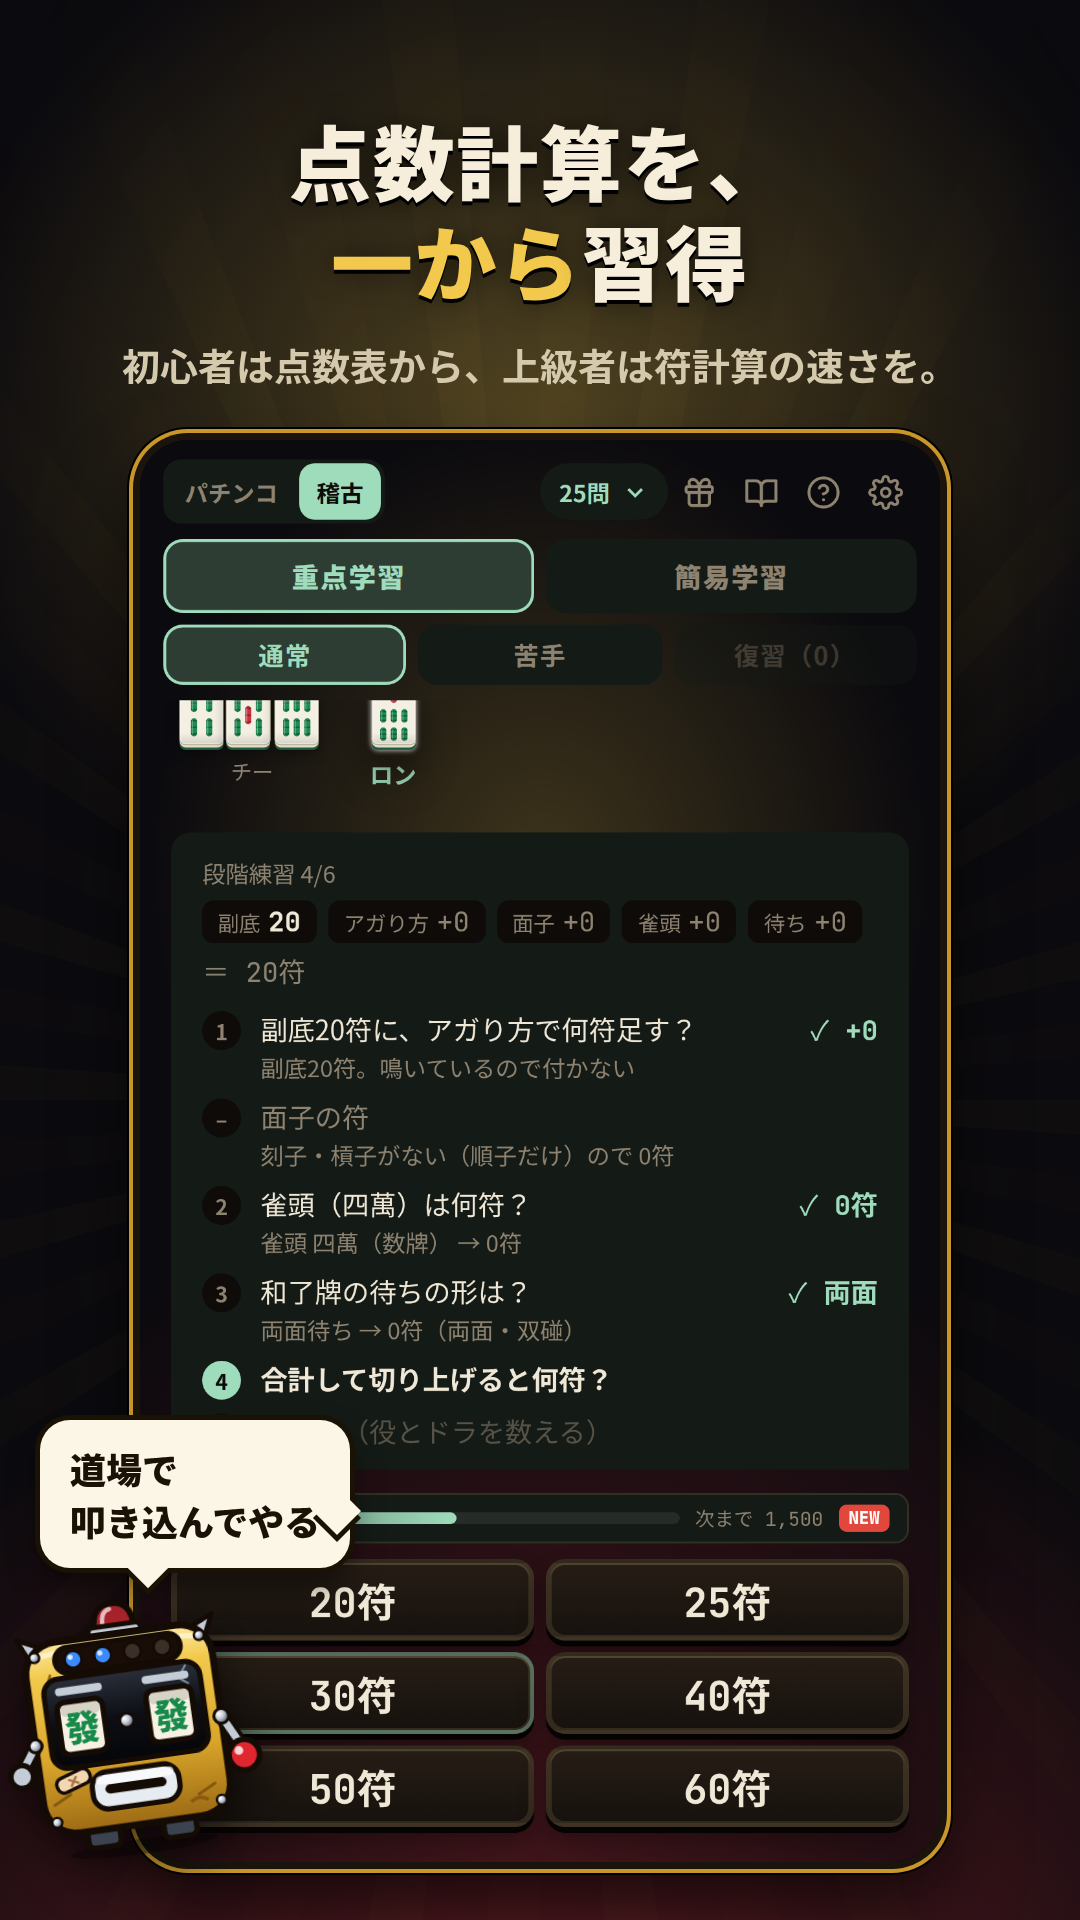
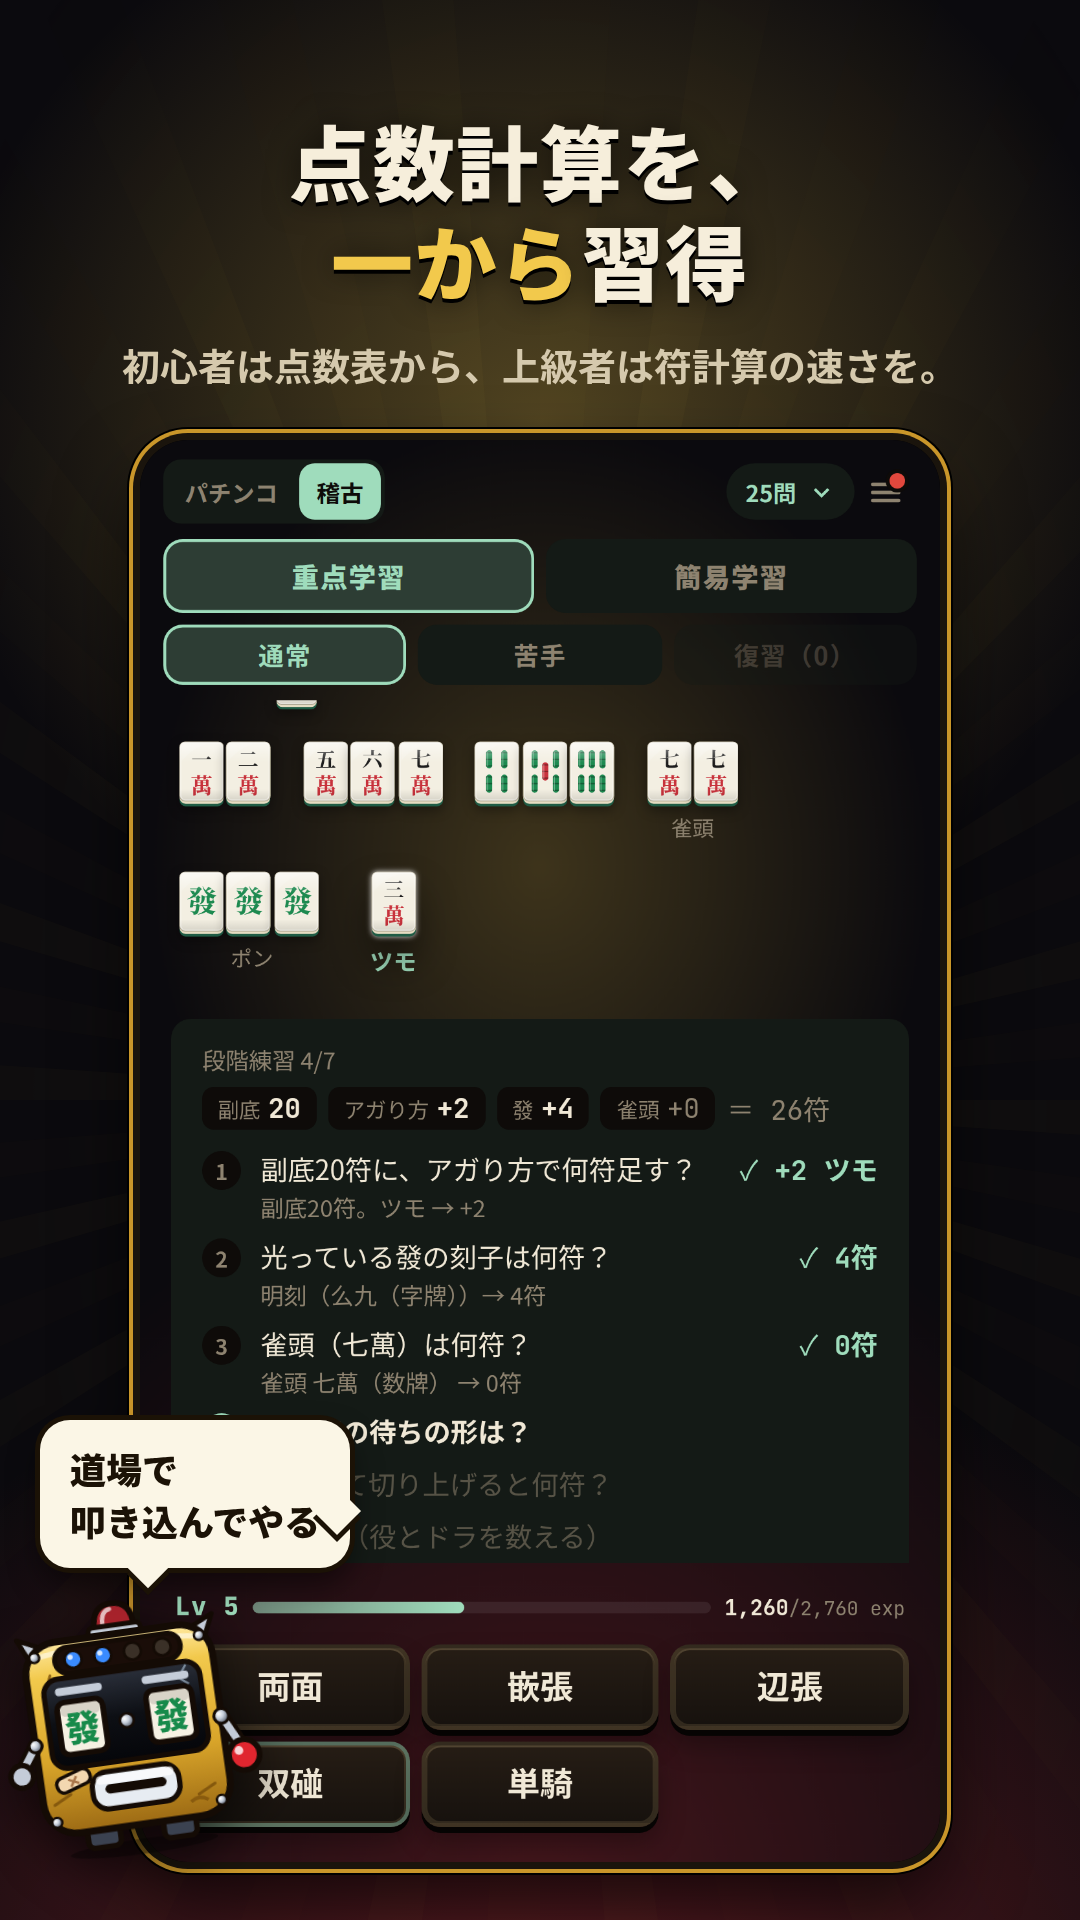
仕上げの手直し：稽古の成績・Lvアップの一言・帳面の文・README・ストア画像
- 稽古中にメニューの「成績を見る」で今の稽古の成績を出す（パチンコへ切り替えない）
- Lv アップの一言ガイドに改造パーツと昇段試験を足す
- 台選びタブの名残の処理と使われない CSS を消す
- 帳面の第1・3・7頁の言い方を正確にする
- README・ストアの説明文を今の画面に合わせ、スクリーンショットを撮り直す

Claude-Session: https://claude.ai/code/session_01Go39Thog7wW1QK3dAFhgwM

diff --git a/src/styles/cabinet.css b/src/styles/cabinet.css
@@ -1296,26 +1296,7 @@ body.busy .bet-box .bar {
   }
 }
 
-/* ---- 計器の上の細い帯：Lv・称号・経験値のバー（タップで物語） */
-#exp-strip {
-  position: relative;
-  display: flex;
-  align-items: center;
-  gap: 8px;
-  width: 100%;
-  height: 26px;
-  padding: 0 10px;
-  overflow: hidden;
-  border: 0;
-  border-radius: 7px;
-  background: var(--sub-bg);
-  box-shadow: inset 0 0 0 1px var(--line);
-  color: var(--sub);
-  font: inherit;
-  font-size: 11px;
-  text-align: left;
-  cursor: pointer;
-}
+/* ---- 経験値の帯の部品（Lv・バー・完結の印）。帯の並びは下の「経験値の帯」で決める */
 body[data-phase='summary'] #exp-strip {
   display: none;
 }
@@ -1326,15 +1307,8 @@ body[data-phase='summary'] #exp-strip {
   font-weight: 800;
   letter-spacing: 0.04em;
 }
-#exp-strip .mt-title {
-  flex: 0 1 auto;
-  max-width: 40%;
-}
 .xp-bar {
   position: relative;
-  flex: 1;
-  min-width: 40px;
-  height: 6px;
   overflow: hidden;
   border-radius: 999px;
   background: rgba(255, 255, 255, 0.08);
@@ -1347,31 +1321,12 @@ body[data-phase='summary'] #exp-strip {
   transition: width 0.6s;
 }
 .xp-next {
-  flex: none;
-  font-size: 10px;
   white-space: nowrap;
 }
 .xp-next em {
   font-style: normal;
   font-weight: 800;
   color: var(--main);
-}
-.xp-new {
-  flex: none;
-  padding: 0 5px;
-  border-radius: 4px;
-  background: #e2483d;
-  color: #fff;
-  font-size: 9px;
-  font-style: normal;
-  font-weight: 800;
-  line-height: 14px;
-  animation: xp-new 1.6s ease-in-out infinite;
-}
-@keyframes xp-new {
-  50% {
-    opacity: 0.55;
-  }
 }
 #exp-strip.flash {
   animation: xp-flash 1.4s ease-out;
@@ -1383,21 +1338,14 @@ body[data-phase='summary'] #exp-strip {
     color: #111;
   }
   100% {
-    background: var(--sub-bg);
+    background: transparent;
   }
 }
 #exp-strip.flash .xp-lv {
   color: inherit;
 }
-@media (max-width: 380px) {
-  /* 狭い画面では「次まで」を外して、バーと称号の場所を取る */
-  .xp-next {
-    display: none;
-  }
-}
 @media (prefers-reduced-motion: reduce) {
-  #exp-strip.flash,
-  .xp-new {
+  #exp-strip.flash {
     animation: none;
   }
 }
@@ -1612,7 +1560,7 @@ body[data-phase='summary'] #exp-strip {
   font-weight: 400;
 }
 
-/* ---- 称号のプレート（経験値の帯に出す。色はレア度。金は大当り・BONUS 専用なので使わない） */
+/* ---- 称号のプレート（経験値の帯の Lv の横に出す。色はレア度。金は大当り・BONUS 専用なので使わない） */
 .mt-top {
   display: flex;
   align-items: center;

diff --git a/src/ui/exam.ts b/src/ui/exam.ts
@@ -206,7 +206,7 @@ export interface NotePage {
 /** ゲンさんの帳面（段位の順に1頁ずつ。5級 → 名人） */
 export const NOTEBOOK: NotePage[] = [
   {
-    tip: '一行目は「30符1翻、子ロン1000」。全部の基本はここだ。翻が1つ増えるたびに点はほぼ倍。2翻で2000、3翻で3900。100点未満は切り上げる。',
+    tip: '一行目は「30符1翻、子ロン1000」。全部の基本はここだ。翻が1つ増えると基本点が倍になる。2翻2000、3翻3900、4翻7700。100点未満は切り上げるから、きっちり倍にはならねえ。',
     scene: '閉店後、学生に早見表を写させながら。「丸暗記でいい。体が覚えりゃ、卓で迷わねえ」',
   },
   {
@@ -214,7 +214,7 @@ export const NOTEBOOK: NotePage[] = [
     scene: '仕事帰りの姉ちゃんに、紙ナプキンの裏で。',
   },
   {
-    tip: '符は副底20から足していく。門前ロンは+10、ツモは+2。最後に10の位へ切り上げる。七対子だけは25符で固定。例外は例外として覚えとけ。',
+    tip: '符は副底20から足していく。門前でロンしたら+10、ツモなら+2。最後に10の位へ切り上げる。例外は2つ。七対子はいつも25符、平和のツモは20符だ。',
     scene: '符で言い合う若いのの間に割って入って。「言い合う前に、副底から順に声に出せ」',
   },
   {
@@ -230,7 +230,7 @@ export const NOTEBOOK: NotePage[] = [
     scene: '閉店間際、壁の時計を見上げながら。',
   },
   {
-    tip: '子のツモは「子の払い-親の払い」。30符3翻なら1000-2000。親のツモは全員から同じで2000オール。ツモの+2符を忘れるな。平和だけは例外だ。',
+    tip: '子のツモは「子の払い-親の払い」。30符3翻なら1000-2000。親のツモは全員から同じで2000オール。ツモの+2符を忘れるな。ただし平和のツモは+2符が付かず、20符のままだ。',
     scene: '夜の店で、眠そうな客の肩を叩いて。',
   },
   {

diff --git a/src/ui/app.ts b/src/ui/app.ts
@@ -2174,11 +2174,6 @@ export class App {
         this.renderShop();
         return;
       }
-      if (d.machineTab) {
-        this.machineTab = d.machineTab as MachineTab;
-        this.renderShop();
-        return;
-      }
       if ('examStart' in d) {
         $<HTMLDialogElement>('#shop-dialog').close();
         this.startExam();
@@ -2382,9 +2377,9 @@ export class App {
     });
   }
 
-  /** メニューの各項目を開く。台・改造・昇段試験・成績は稽古ならパチンコに切り替えてから */
+  /** メニューの各項目を開く。台・改造・昇段試験は稽古ならパチンコに切り替えてから。成績は今のモードの成績 */
   private menuAction(item: MenuItem): void {
-    const needPachinko = item === 'machine' || item === 'parts' || item === 'exam' || item === 'summary';
+    const needPachinko = item === 'machine' || item === 'parts' || item === 'exam';
     if (needPachinko && this.keiko) this.update({ playMode: 'pachinko' });
     switch (item) {
       case 'machine':
@@ -2401,7 +2396,14 @@ export class App {
         return;
       case 'summary':
         if (this.blockedInBonus()) return;
-        this.showSummary('summary');
+        // 稽古は、ここまでの稽古の成績（区切って最初から）。パチンコは収支・大当り履歴も
+        if (this.keiko) {
+          if (!this.session.answered) {
+            this.toast('まだ稽古の記録がありません。何問か解いてから見てみな');
+            return;
+          }
+          this.showSummary('end');
+        } else this.showSummary('summary');
         return;
       case 'help':
         this.openHelp();

diff --git a/src/ui/menu.ts b/src/ui/menu.ts
@@ -68,7 +68,7 @@ export function menuHtml(v: MenuView): string {
       ${tile('exam', '昇段試験', v.rank ? `今は ${v.rank}` : 'まだ段位なし', v.badges.exam)}
       ${tile('shop', '交換所', '称号・スキン・BGM')}
       ${tile('story', '物語', 'パチふとくんの記憶', v.badges.story)}
-      ${tile('summary', '成績を見る', v.keiko ? 'パチンコの成績' : '正答率・収支で区切る')}
+      ${tile('summary', '成績を見る', v.keiko ? 'ここまでの稽古の成績' : '正答率・収支で区切る')}
       ${tile('help', '遊び方', '符の数え方・台のしくみ')}
       ${tile('settings', '設定', '演出・音・ルール')}
       ${tile('start', 'スタート画面へ', 'チュートリアルもここから')}

diff --git a/src/ui/tips.ts b/src/ui/tips.ts
@@ -102,7 +102,7 @@ export function tipText(id: Exclude<TipId, 'firstHit'>, fastSec: number, spec: M
     case 'machine':
       return `ミドル台を解放できるだけ稼いだな（${SPECS.middle.price.toLocaleString()} yan）。メニューの「台選び」だ`;
     case 'levelUp':
-      return 'Lv が上がるたび、オレ様の記憶が1話ずつ戻ってくる。メニュー（右上の ≡）の「物語」で読めるぜ';
+      return 'Lv が上がるたび、改造パーツが手に入って、オレ様の記憶も1話ずつ戻る。2 Lv ごとに昇段試験もあるぜ。全部メニュー（右上の ≡）からだ';
   }
 }
 

diff --git a/src/styles/start.css b/src/styles/start.css
@@ -414,8 +414,3 @@ body.start-open {
 .st-lv b {
   color: #f2c94c;
 }
-/* 昇段試験：朱の札 */
-.st-btn.st-exam {
-  background: linear-gradient(180deg, #3a1a10, #200c07);
-  box-shadow: inset 0 0 0 2px rgba(242, 201, 76, 0.75), 0 6px 18px rgba(0, 0, 0, 0.4);
-}

diff --git a/README.md b/README.md
@@ -46,7 +46,7 @@ npm run dev      # http://localhost:5173
   - 画面を暗くして操作する場所だけを光らせ（スポットライト）、指のアイコンで押す場所を示します。光った場所以外は押せず、実際に操作すると次へ進みます。セリフは吹き出しに1文字ずつ出て、タップで進みます。
   - 暗さは場面で変えます：セリフだけ 0.62／光らせて説明 0.5／**光らせて操作させる場面 0.3**（金色の枠と「タップ！」の札、吹き出しに「光っているところを押してね」）。
   - 吹き出しは、光らせる対象の上下の空いている側に、収まる高さで置きます（`src/ui/tutorial/layout.ts`）。答えさせる場面は、問題に重ならないよう画面の上端の帯に出します。スマホでは顔を小さくして場所を空けます。自由に遊ぶ場面は上端の小さな帯です。画面の下端からは回答欄と同じだけ（6vh、24〜56px）離し、ナビゲーションバーのあるスマホでも被らないようにしています。
-  - 章は4つ：プロローグ（世界観）／パチンコの基本（決まった1問を解き、あと2問の正解で大当り → 2問だけの短い BONUS を遊ぶ。この間の BET はなし。そのあと出題の早見・符計算・実戦の違いと、経験値の帯を紹介）／稽古（重点学習の段階を1つ答える）／道具の場所（出題設定・交換所・物語の本・ヘルプ・設定）。
+  - 章は4つ：プロローグ（世界観）／パチンコの基本（決まった1問を解き、あと2問の正解で大当り → 2問だけの短い BONUS を遊ぶ。この間の BET はなし。そのあと早見・符計算・実戦をそれぞれ実際の問題を出して見せ、計器と経験値の帯を紹介）／稽古（重点学習の段階を1つ答える）／道具の場所（出題設定と、メニュー（台選び・改造・昇段試験・交換所・物語・遊び方・設定）。赤い点の意味）。
   - 吹き出しの右上の「スキップ」で、この章または全部をとばせます（吹き出しごと対象を避けるので、光らせたボタンに重なりません）。チュートリアル中は画面上端の一言は出しません。設定の「チュートリアル」から、全部または章を選んでいつでも見直せます。
   - 台本（セリフ・光らせる場所・進み方）は `src/ui/tutorial/script.ts` にステップのリストとしてまとめています。仕組みは `runner.ts`、キャラの絵（自作の SVG・表情5種）は `chara.ts`。
 - **遊び方（メニューの「遊び方」）**：「遊び方」「パチンコのルール」「用語集」の3つのタブがあります。ルールの数値はゲームの設定値から作るので、調整しても説明がずれません。
@@ -119,7 +119,7 @@ npm run dev      # http://localhost:5173
   - 装備した称号は、計器の Lv の札の下にプレートで表示されます。プレートの色はレア度（コモン＝グレー、レア＝青、エピック＝紫、レジェンド＝ホログラム）。買う称号は値段で、実力の称号は条件の難しさでレア度が決まります。
 - **経験値と Lv（計器のすぐ上の帯）**：yan を稼ぐと経験値がたまります（BONUS の賞金・上乗せと同じ量。BET・買い物・破産では減らない）。パチンコの通常の問題の正解でも 3 入ります。稽古でも、正解すると少しだけ（1問を全部正解で 10、段階練習は正解の割合で）たまります。Lv1 から始まり上限なし。帯には Lv・装備した称号・バー・次の Lv までの量と、読んでいない話があれば NEW。タップで物語の本が開きます。日替わりミッションは廃止しました。
   - 次の Lv までに要る量は `200 × Lv^1.63`（10単位で切り上げ）。Lv1→2 は 200 で、最初の BONUS で上がります。Lv20 までの合計は約18.8万で、中級者（正解85%・速答5割）の甘デジなら約4,600問（BONUS の賞金が1問あたり約38 yan ＋ 正解の 3）。Lv20 から先は自己満足です（`src/ui/level.ts`）。
-- **物語（パチふとくんの記憶。ヘッダーの本のマーク）**：パチふとで経験を積むほど、パチふとくんの失った記憶が流れ込んでくる、という設定。Lv N で第N話が読め、**Lv20 の第20話で完結**（事実上のクリア）。平和な時代のパチンコ屋に並ぶ人気筐体だった頃、常連のゲンさん、勝ち点で人を測る「勝者法」と yan の始まり、ホールが賭場に変わっていく世紀末、筐体に意識が宿った夜、封印された記憶とプレイヤー（新顔）との出会いまで。まだ読めない話は「Lv N で読める」と伏せて出します。Lv が上がると全画面の Lv アップ演出（パチふとくんが跳ね上がり、Lv の数字が回り、新しく読める話を知らせる。Lv20 は「物語 完結」の特別版）を出し、［今すぐ読む］でその話を開きます。BONUS・発展リーチ・ダイアログの間は待ってから出します。演出オフのときは一言ガイドで知らせます（`src/ui/effects/levelup.ts`）。
+- **物語（パチふとくんの記憶。メニューの「物語」）**：パチふとで経験を積むほど、パチふとくんの失った記憶が流れ込んでくる、という設定。Lv N で第N話が読め、**Lv20 の第20話で完結**（事実上のクリア）。平和な時代のパチンコ屋に並ぶ人気筐体だった頃、常連のゲンさん、勝ち点で人を測る「勝者法」と yan の始まり、ホールが賭場に変わっていく世紀末、筐体に意識が宿った夜、封印された記憶とプレイヤー（新顔）との出会いまで。まだ読めない話は「Lv N で読める」と伏せて出します。Lv が上がると全画面の Lv アップ演出（パチふとくんが跳ね上がり、Lv の数字が回り、新しく読める話を知らせる。Lv20 は「物語 完結」の特別版）を出し、［今すぐ読む］でその話を開きます。BONUS・発展リーチ・ダイアログの間は待ってから出します。演出オフのときは一言ガイドで知らせます（`src/ui/effects/levelup.ts`）。
 - **昇段試験（段位）と台の改造**：Lv は稼いだ yan で上がるので、腕前は段位で別に示します。
   - 昇段試験：パチふとくんが課す「数えの試験」で、段位は賭場で数え屋に頼らずに数えられる証。試験の前にパチふとくんの前口上（物語の進み具合で変わる）。受かるたびに「ゲンさんの帳面」（外伝、全10頁）が1頁ずつ戻り、物語の本の「帳面」タブで読み返せる。ゲンさんの名前は物語の第4話を読むまで伏せる（「誰かの帳面」）。Lv 2 ごとに次の段位の試験（10問）を受けられ、Lv 20 で名人（全10段階）。5級は早見、4〜2級は符計算、1級からは実戦。初段からは平均の速さも問い、名人は数値入力・全問正解。試験中は yan・台・経験値は動きません。合格で認定証と段位の札（`src/ui/exam.ts`）。
   - 改造パーツ：Lv アップのたびに1つ手に入り（Lv 2〜13 で12種類、それ以降は祝い金）、メニューの「改造」で台に付けます。付けられる枠は最初1つで、昇段試験に受かるほど増えて名人で6つ。効き目は `src/ui/machine/parts.ts`、反映は `src/ui/machine/mods.ts`。全部の枠を強いパーツで埋めても、中級者の回収率の伸びは +60% 未満（`tests/parts.test.ts` のシミュレーション）。
